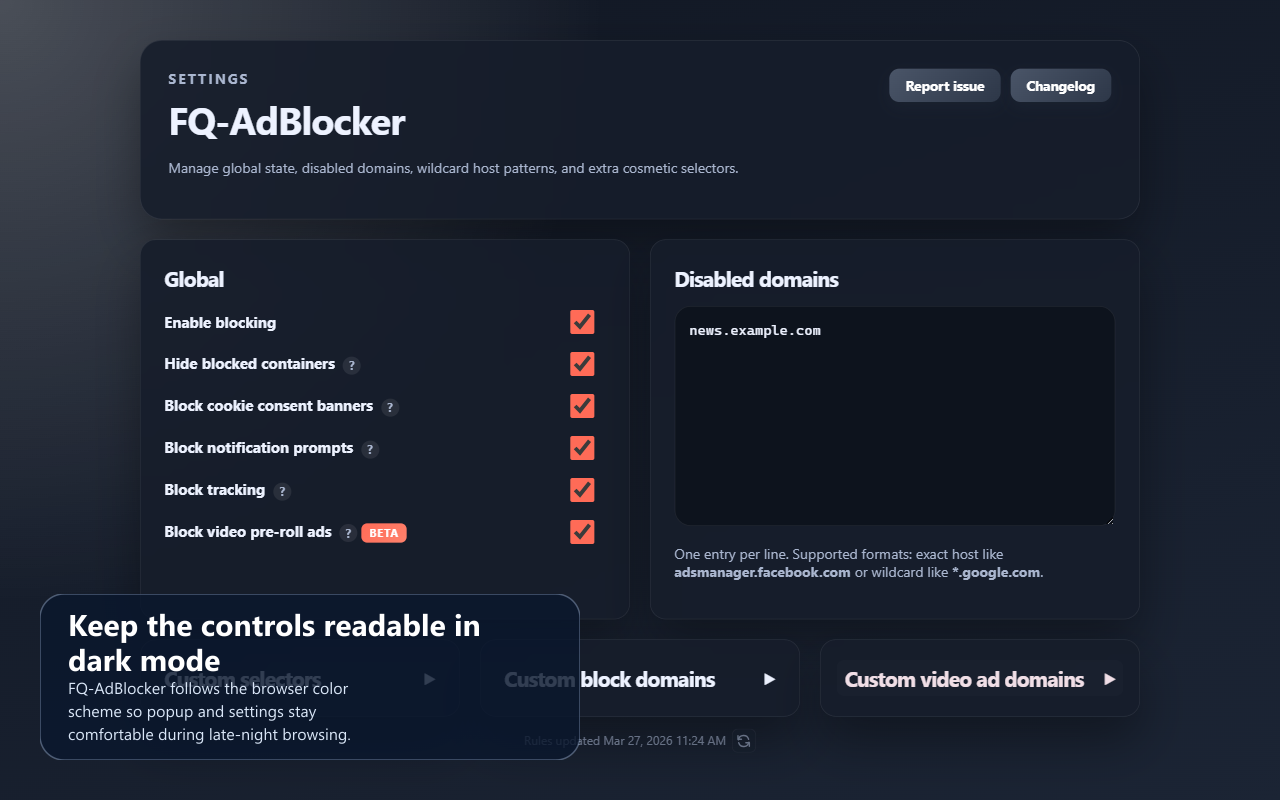
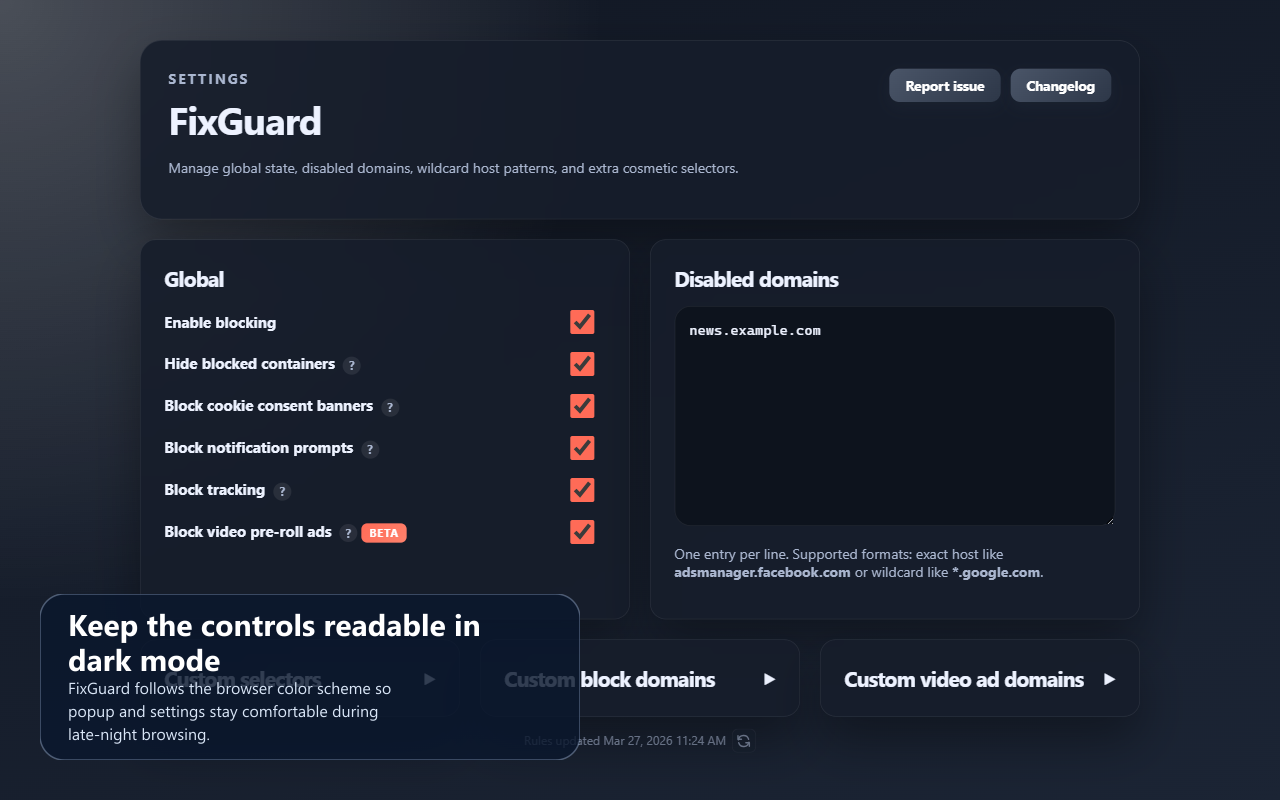
Moved to fixguard.org

Changed region(s): [[0.0625, 0.8438, 0.3125, 0.9375], [0.125, 0.125, 0.3125, 0.1875], [0.6562, 0.8438, 0.8438, 0.875]]

diff --git a/index.html b/index.html
@@ -3,36 +3,39 @@
   <head>
     <meta charset="UTF-8" />
     <meta name="viewport" content="width=device-width, initial-scale=1.0" />
-    <title>FQ-AdBlocker — Lightweight Ad Blocker for Chrome & Edge</title>
+    <title>FixGuard – Ad Blocker & Privacy Protection for Chrome & Edge</title>
     <meta name="description" content="A lightweight Manifest V3 extension for Chrome and Edge with network blocking, cosmetic filtering, cookie consent hiding, and video ad blocking." />
-    <meta name="application-name" content="FQ-AdBlocker" />
-    <meta name="apple-mobile-web-app-title" content="FQ-AdBlocker" />
+    <meta name="application-name" content="FixGuard" />
+    <meta name="apple-mobile-web-app-title" content="FixGuard" />
     <meta name="theme-color" content="#111723" />
     <meta name="color-scheme" content="light dark" />
-    <meta name="robots" content="index, follow" />
-    <meta name="google-site-verification" content="14OfSmxPs5-EXpOJ6Cx9AvpeZSgXMOnxvYtgm21ykQY" />
-    <link rel="canonical" href="https://adblocker.fixquotes.com" />
+    <meta name="robots" content="noindex, nofollow" />
+    <link rel="canonical" href="https://fixguard.org/" />
+    <meta http-equiv="refresh" content="0; url=https://fixguard.org/" />
     <link rel="icon" href="favicon.ico" sizes="any" />
     <link rel="shortcut icon" href="favicon.ico" type="image/x-icon" />
     <link rel="icon" href="img/icon-128.png" type="image/png" />
     <link rel="icon" type="image/svg+xml" href="favicon.svg" />
     <link rel="apple-touch-icon" href="img/icon-128.png" />
+    <script>
+      window.location.replace("https://fixguard.org/");
+    </script>
 
     <!-- Open Graph -->
-    <meta property="og:site_name" content="FQ-AdBlocker" />
+    <meta property="og:site_name" content="FixGuard" />
     <meta property="og:locale" content="en_US" />
     <meta property="og:type" content="website" />
-    <meta property="og:title" content="FQ-AdBlocker — Lightweight Ad Blocker for Chrome & Edge" />
+    <meta property="og:title" content="FixGuard – Ad Blocker & Privacy Protection for Chrome & Edge" />
     <meta property="og:description" content="A lightweight Manifest V3 extension for Chrome and Edge with network blocking, cosmetic filtering, cookie consent hiding, and video ad blocking." />
-    <meta property="og:url" content="https://adblocker.fixquotes.com" />
-    <meta property="og:image" content="https://adblocker.fixquotes.com/img/feature-before-after-newspaper.png" />
-    <meta property="og:image:alt" content="Before and after comparison of an ad-heavy newspaper page cleaned up by FQ-AdBlocker" />
+    <meta property="og:url" content="https://fixguard.org/" />
+    <meta property="og:image" content="https://fixguard.org/img/feature-before-after-newspaper.png" />
+    <meta property="og:image:alt" content="Before and after comparison of an ad-heavy newspaper page cleaned up by FixGuard" />
 
     <!-- Twitter -->
     <meta name="twitter:card" content="summary" />
-    <meta name="twitter:title" content="FQ-AdBlocker — Lightweight Ad Blocker for Chrome & Edge" />
+    <meta name="twitter:title" content="FixGuard – Ad Blocker & Privacy Protection for Chrome & Edge" />
     <meta name="twitter:description" content="A lightweight Manifest V3 extension for Chrome and Edge with network blocking, cosmetic filtering, cookie consent hiding, and video ad blocking." />
-    <meta name="twitter:image" content="https://adblocker.fixquotes.com/img/feature-before-after-newspaper.png" />
+    <meta name="twitter:image" content="https://fixguard.org/img/feature-before-after-newspaper.png" />
 
     <link rel="stylesheet" href="style.css" />
   </head>
@@ -42,7 +45,7 @@
       <nav class="nav container">
         <a href="index.html" class="nav-brand">
           <img src="img/icon-48.png" alt="" width="28" height="28" />
-          <span>FQ-AdBlocker</span>
+          <span>FixGuard</span>
         </a>
         <ul class="nav-links">
           <li><a href="index.html#features">Features</a></li>
@@ -59,9 +62,9 @@
         <div class="container hero-inner">
           <p class="eyebrow">Chrome & Edge Extension · Manifest V3</p>
           <h1>Browse without<br />the noise.</h1>
-          <p class="hero-sub">FQ-AdBlocker is a free, lightweight, privacy-first extension for Chrome and Edge that blocks ads, trackers, cookie banners, and notification prompts while giving you clean per-site control — no accounts, no subscriptions, no premium tiers.</p>
+          <p class="hero-sub">FixGuard is a free, lightweight, privacy-first extension for Chrome and Edge that blocks ads, trackers, cookie banners, and notification prompts while giving you clean per-site control — no accounts, no subscriptions, no premium tiers.</p>
           <div class="hero-actions">
-            <a href="https://chromewebstore.google.com/detail/fq-adblocker/dnpcaahjbmabpacbdhnfjdincnkafjfm" class="btn" target="_blank" rel="noopener"><img src="img/chrome.svg" alt="" width="20" height="20" />Add to Chrome</a>
+            <a href="https://chromewebstore.google.com/detail/dnpcaahjbmabpacbdhnfjdincnkafjfm" class="btn" target="_blank" rel="noopener"><img src="img/chrome.svg" alt="" width="20" height="20" />Add to Chrome</a>
             <a href="index.html#screenshots" class="btn btn-outline">See Screenshots</a>
             <a href="index.html#features" class="btn btn-outline">See Features</a>
           </div>
@@ -79,7 +82,7 @@
               <button class="showcase-stage" type="button" data-screenshot-open aria-label="Open selected screenshot in full size">
                 <img
                   src="img/feature-before-after-newspaper.png"
-                  alt="Before and after comparison of an ad-heavy newspaper page cleaned up by FQ-AdBlocker"
+                  alt="Before and after comparison of an ad-heavy newspaper page cleaned up by FixGuard"
                   data-screenshot-active-image
                 />
               </button>
@@ -87,7 +90,7 @@
               <article class="showcase-copy card">
                 <p class="showcase-label" data-screenshot-active-label>Before / After</p>
                 <h3 data-screenshot-active-title>Watch a cluttered news page turn readable</h3>
-                <p class="showcase-description" data-screenshot-active-description>One side shows the typical ad-heavy newspaper layout. The other shows the same story after FQ-AdBlocker clears banners, sticky promos, and overlays.</p>
+                <p class="showcase-description" data-screenshot-active-description>One side shows the typical ad-heavy newspaper layout. The other shows the same story after FixGuard clears banners, sticky promos, and overlays.</p>
                 <p class="showcase-support" data-screenshot-active-support>This is the clearest way to show the product value: same page, same article, much less noise.</p>
               </article>
             </div>
@@ -102,9 +105,9 @@
                 data-image="img/feature-before-after-newspaper.png"
                 data-title="Watch a cluttered news page turn readable"
                 data-label="Before / After"
-                data-description="One side shows the typical ad-heavy newspaper layout. The other shows the same story after FQ-AdBlocker clears banners, sticky promos, and overlays."
+                data-description="One side shows the typical ad-heavy newspaper layout. The other shows the same story after FixGuard clears banners, sticky promos, and overlays."
                 data-support="This is the clearest way to show the product value: same page, same article, much less noise."
-                data-alt="Before and after comparison of an ad-heavy newspaper page cleaned up by FQ-AdBlocker"
+                data-alt="Before and after comparison of an ad-heavy newspaper page cleaned up by FixGuard"
               >
                 <img src="img/feature-before-after-newspaper_thumb.png" alt="" />
                 <span>Before / After</span>
@@ -121,7 +124,7 @@
                 data-label="Allowlist"
                 data-description="Allowlist the active site from the popup while keeping blocking enabled everywhere else."
                 data-support="Matched wildcard entries are surfaced in the popup, so users can see exactly why protection is paused on a given host."
-                data-alt="FQ-AdBlocker popup showing a matched allowlist pattern and enable button for the current site"
+                data-alt="FixGuard popup showing a matched allowlist pattern and enable button for the current site"
               >
                 <img src="img/feature-site-allowlist_thumb.png" alt="" />
                 <span>Site Allowlist</span>
@@ -138,7 +141,7 @@
                 data-label="Settings"
                 data-description="Control global blocking, cookie banners, tracking, notifications, video ads, and wildcard-disabled domains from a single page."
                 data-support="The settings page keeps the core toggles visible first, then leaves room for more advanced rule lists further down."
-                data-alt="FQ-AdBlocker settings page showing global toggles and disabled domains"
+                data-alt="FixGuard settings page showing global toggles and disabled domains"
               >
                 <img src="img/feature-settings-overview_thumb.png" alt="" />
                 <span>Settings Overview</span>
@@ -155,7 +158,7 @@
                 data-label="Custom Rules"
                 data-description="Add custom selectors, extra blocked domains, and custom video-ad filters on top of the built-in remote lists."
                 data-support="This gives power users a controlled way to extend filtering without losing the lightweight default setup."
-                data-alt="FQ-AdBlocker settings page showing custom selectors, custom block domains, and custom video ad domains"
+                data-alt="FixGuard settings page showing custom selectors, custom block domains, and custom video ad domains"
               >
                 <img src="img/feature-custom-rules_thumb.png" alt="" />
                 <span>Custom Rules</span>
@@ -172,7 +175,7 @@
                 data-label="Dark Mode"
                 data-description="The settings page follows the browser color scheme so advanced controls stay readable during long evening sessions."
                 data-support="The extension UI keeps the same structure in dark mode, which makes the popup and settings page easy to use without a separate theme toggle."
-                data-alt="FQ-AdBlocker settings page shown in dark mode"
+                data-alt="FixGuard settings page shown in dark mode"
               >
                 <img src="img/feature-dark-mode_thumb.png" alt="" />
                 <span>Dark Mode</span>
@@ -280,7 +283,7 @@
           <h2 class="section-title">Install in seconds — it's free.</h2>
 
           <div class="store-grid">
-            <a href="https://chromewebstore.google.com/detail/fq-adblocker/dnpcaahjbmabpacbdhnfjdincnkafjfm" class="store-card" target="_blank" rel="noopener">
+            <a href="https://chromewebstore.google.com/detail/dnpcaahjbmabpacbdhnfjdincnkafjfm" class="store-card" target="_blank" rel="noopener">
               <img src="img/chrome.svg" alt="" class="store-logo" width="48" height="48" />
               <div class="store-info">
                 <h3>Chrome Web Store</h3>
@@ -302,7 +305,7 @@
             <div class="step">
               <span class="step-num">1</span>
               <h3>Add to Your Browser</h3>
-              <p>Visit the <a href="https://chromewebstore.google.com/detail/fq-adblocker/dnpcaahjbmabpacbdhnfjdincnkafjfm" target="_blank" rel="noopener">Chrome Web Store</a> listing and click <strong>Add</strong>. Edge Add-ons listing coming soon.</p>
+              <p>Visit the <a href="https://chromewebstore.google.com/detail/dnpcaahjbmabpacbdhnfjdincnkafjfm" target="_blank" rel="noopener">Chrome Web Store</a> listing and click <strong>Add</strong>. Edge Add-ons listing coming soon.</p>
             </div>
             <div class="step">
               <span class="step-num">2</span>
@@ -312,7 +315,7 @@
             <div class="step">
               <span class="step-num">3</span>
               <h3>Pin It</h3>
-              <p>Click the extensions icon in your browser's toolbar and pin FQ-AdBlocker for quick access.</p>
+              <p>Click the extensions icon in your browser's toolbar and pin FixGuard for quick access.</p>
             </div>
             <div class="step">
               <span class="step-num">4</span>

diff --git a/privacy.html b/privacy.html
@@ -3,35 +3,39 @@
   <head>
     <meta charset="UTF-8" />
     <meta name="viewport" content="width=device-width, initial-scale=1.0" />
-    <title>Privacy Policy — FQ-AdBlocker</title>
-    <meta name="description" content="FQ-AdBlocker blocks content locally, stores settings in browser storage, and downloads rule updates without collecting personal data." />
-    <meta name="application-name" content="FQ-AdBlocker" />
-    <meta name="apple-mobile-web-app-title" content="FQ-AdBlocker" />
+    <title>Privacy Policy — FixGuard</title>
+    <meta name="description" content="FixGuard blocks content locally, stores settings in browser storage, and downloads rule updates without collecting personal data." />
+    <meta name="application-name" content="FixGuard" />
+    <meta name="apple-mobile-web-app-title" content="FixGuard" />
     <meta name="theme-color" content="#111723" />
     <meta name="color-scheme" content="light dark" />
-    <meta name="robots" content="index, follow" />
-    <link rel="canonical" href="https://adblocker.fixquotes.com/privacy.html" />
+    <meta name="robots" content="noindex, nofollow" />
+    <link rel="canonical" href="https://fixguard.org/privacy.html" />
+    <meta http-equiv="refresh" content="0; url=https://fixguard.org/" />
     <link rel="icon" href="favicon.ico" sizes="any" />
     <link rel="shortcut icon" href="favicon.ico" type="image/x-icon" />
     <link rel="icon" href="img/icon-128.png" type="image/png" />
     <link rel="icon" type="image/svg+xml" href="favicon.svg" />
     <link rel="apple-touch-icon" href="img/icon-128.png" />
+    <script>
+      window.location.replace("https://fixguard.org/");
+    </script>
 
     <!-- Open Graph -->
-    <meta property="og:site_name" content="FQ-AdBlocker" />
+    <meta property="og:site_name" content="FixGuard" />
     <meta property="og:locale" content="en_US" />
     <meta property="og:type" content="website" />
-    <meta property="og:title" content="Privacy Policy — FQ-AdBlocker" />
-    <meta property="og:description" content="FQ-AdBlocker blocks content locally, stores settings in browser storage, and downloads rule updates without collecting personal data." />
-    <meta property="og:url" content="https://adblocker.fixquotes.com/privacy.html" />
-    <meta property="og:image" content="https://adblocker.fixquotes.com/img/feature-before-after-newspaper.png" />
-    <meta property="og:image:alt" content="Before and after comparison of an ad-heavy newspaper page cleaned up by FQ-AdBlocker" />
+    <meta property="og:title" content="Privacy Policy — FixGuard" />
+    <meta property="og:description" content="FixGuard blocks content locally, stores settings in browser storage, and downloads rule updates without collecting personal data." />
+    <meta property="og:url" content="https://fixguard.org/privacy.html" />
+    <meta property="og:image" content="https://fixguard.org/img/feature-before-after-newspaper.png" />
+    <meta property="og:image:alt" content="Before and after comparison of an ad-heavy newspaper page cleaned up by FixGuard" />
 
     <!-- Twitter -->
     <meta name="twitter:card" content="summary" />
-    <meta name="twitter:title" content="Privacy Policy — FQ-AdBlocker" />
-    <meta name="twitter:description" content="FQ-AdBlocker blocks content locally, stores settings in browser storage, and downloads rule updates without collecting personal data." />
-    <meta name="twitter:image" content="https://adblocker.fixquotes.com/img/feature-before-after-newspaper.png" />
+    <meta name="twitter:title" content="Privacy Policy — FixGuard" />
+    <meta name="twitter:description" content="FixGuard blocks content locally, stores settings in browser storage, and downloads rule updates without collecting personal data." />
+    <meta name="twitter:image" content="https://fixguard.org/img/feature-before-after-newspaper.png" />
 
     <link rel="stylesheet" href="style.css" />
   </head>
@@ -41,7 +45,7 @@
       <nav class="nav container">
         <a href="index.html" class="nav-brand">
           <img src="img/icon-48.png" alt="" width="28" height="28" />
-          <span>FQ-AdBlocker</span>
+          <span>FixGuard</span>
         </a>
         <ul class="nav-links">
           <li><a href="index.html#features">Features</a></li>
@@ -57,19 +61,19 @@
         <div class="container container-narrow">
           <p class="eyebrow">Legal</p>
           <h1 class="page-title">Privacy Policy</h1>
-          <p class="last-updated">Last Updated: March 29, 2026</p>
+          <p class="last-updated">Last Updated: March 30, 2026</p>
 
-          <p>This Privacy Policy describes how FQ-AdBlocker ("we", "us", or "our") handles your information when you use our browser extension.</p>
+          <p>This Privacy Policy describes how FixGuard ("we", "us", or "our") handles your information when you use our browser extension.</p>
 
           <div class="highlight-box">
-            <strong>Summary:</strong> We do not collect, sell, or share personal data. Blocking happens locally in your browser, and the extension only contacts our rules API to download updated blocking rules. Those requests are not used for analytics, do not include your browsing history or page content, and api.fixquotes.com does not keep IP logs.
+            <strong>Summary:</strong> We do not collect, sell, or share personal data. Blocking happens locally in your browser, and the extension only contacts our rules API at fixguard.org to download updated blocking rules. Those requests are not used for analytics, do not include your browsing history or page content, and fixguard.org does not keep IP logs.
           </div>
 
           <h2>1. Data Collection</h2>
-          <p><strong>FQ-AdBlocker does not collect any personal data.</strong></p>
+          <p><strong>FixGuard does not collect any personal data.</strong></p>
           <p>The extension reads the content of web pages you visit solely to apply cosmetic filtering — hiding ad containers, cookie consent banners, and other unwanted elements. This processing is performed entirely within your browser on your device.</p>
           <p>Network blocking is handled by Chrome's Declarative Net Request API using extension rules. The extension does not intercept request bodies, inspect account data, or transmit your browsing history.</p>
-          <p>To keep blocking rules current, the extension periodically downloads updated rule data from <code>https://api.fixquotes.com/public/adblocker-rules</code>. These requests are limited to rule updates, are not tied to your browsing activity, and api.fixquotes.com does not keep IP logs.</p>
+          <p>To keep blocking rules current, the extension periodically downloads updated rule data from <code>https://fixguard.org/api/public/adblocker-rules</code>. These requests are limited to rule updates, are not tied to your browsing activity, and fixguard.org does not keep IP logs.</p>
           <ul>
             <li>We do not track your browsing history.</li>
             <li>We do not collect analytics or telemetry.</li>
@@ -93,7 +97,7 @@
           <p>This data remains in your browser storage. If you use Chrome Sync, some settings may sync through your browser profile. We do not receive access to that stored data.</p>
 
           <h2>3. Permissions</h2>
-          <p>FQ-AdBlocker requests the following browser permissions:</p>
+          <p>FixGuard requests the following browser permissions:</p>
           <ul>
             <li><strong>declarativeNetRequest / declarativeNetRequestWithHostAccess:</strong> Used to block ads and tracking requests and apply dynamic allowlist and custom blocking rules.</li>
             <li><strong>declarativeNetRequestFeedback:</strong> Used to query matched rule counts for the popup and debugging. No request payloads are stored or transmitted.</li>
@@ -105,14 +109,14 @@
           <p>No permission is used to collect or sell personal information. The only external requests made by the extension are for downloading updated blocking rules.</p>
 
           <h2>4. Third-Party Services</h2>
-          <p>FQ-AdBlocker does not load third-party analytics, ad scripts, or CDN resources into the extension. All extension code runs locally from the extension bundle.</p>
-          <p>The extension does contact <code>api.fixquotes.com</code> to download updated blocking rules. These requests are used only to deliver rule updates, are not used for analytics, and api.fixquotes.com does not keep IP logs.</p>
+          <p>FixGuard does not load third-party analytics, ad scripts, or CDN resources into the extension. All extension code runs locally from the extension bundle.</p>
+          <p>The extension does contact <code>https://fixguard.org/api/public/adblocker-rules</code> to download updated blocking rules. These requests are used only to deliver rule updates, are not used for analytics, and fixguard.org does not keep IP logs.</p>
 
           <h2>5. Website</h2>
-          <p>The FQ-AdBlocker website is a static site hosted on GitHub Pages. It does not use cookies, analytics, or tracking scripts.</p>
+          <p>The FixGuard website is a static site hosted on GitHub Pages. It does not use cookies, analytics, or tracking scripts.</p>
 
           <h2>6. Your Rights</h2>
-          <p>Since FQ-AdBlocker does not collect or store personal data, there is no personal data to access, modify, or delete. If you have questions, you may contact us using the information below.</p>
+          <p>Since FixGuard does not collect or store personal data, there is no personal data to access, modify, or delete. If you have questions, you may contact us using the information below.</p>
 
           <h2>7. Changes to This Policy</h2>
           <p>We may update this Privacy Policy from time to time. Changes will be posted on this page with an updated date.</p>

diff --git a/changelog.html b/changelog.html
@@ -3,17 +3,21 @@
   <head>
     <meta charset="UTF-8" />
     <meta name="viewport" content="width=device-width, initial-scale=1.0" />
-    <title>Changelog — FQ-AdBlocker</title>
-    <meta name="description" content="FQ-AdBlocker changelog — see what's new in each release." />
+    <title>Changelog — FixGuard</title>
+    <meta name="description" content="FixGuard changelog — see what's new in each release." />
     <meta name="theme-color" content="#111723" />
     <meta name="color-scheme" content="light dark" />
-    <meta name="robots" content="index, follow" />
-    <link rel="canonical" href="https://adblocker.fixquotes.com/changelog.html" />
+    <meta name="robots" content="noindex, nofollow" />
+    <link rel="canonical" href="https://fixguard.org/changelog.html" />
+    <meta http-equiv="refresh" content="0; url=https://fixguard.org/" />
     <link rel="icon" href="favicon.ico" sizes="any" />
     <link rel="shortcut icon" href="favicon.ico" type="image/x-icon" />
     <link rel="icon" href="img/icon-128.png" type="image/png" />
     <link rel="icon" type="image/svg+xml" href="favicon.svg" />
     <link rel="apple-touch-icon" href="img/icon-128.png" />
+    <script>
+      window.location.replace("https://fixguard.org/");
+    </script>
     <link rel="stylesheet" href="style.css" />
   </head>
   <body>
@@ -22,7 +26,7 @@
       <nav class="nav container">
         <a href="index.html" class="nav-brand">
           <img src="img/icon-48.png" alt="" width="28" height="28" />
-          <span>FQ-AdBlocker</span>
+          <span>FixGuard</span>
         </a>
         <ul class="nav-links">
           <li><a href="index.html#features">Features</a></li>
@@ -40,8 +44,8 @@
 
           <article class="changelog-entry">
             <div class="changelog-version">
-              <span class="badge">v1.0.1</span>
-              <time datetime="2026-03-29">March 29, 2026</time>
+              <span class="badge">v1.0.2</span>
+              <time datetime="2026-03-30">March 30, 2026</time>
             </div>
             <h3>Added</h3>
             <ul>
@@ -55,6 +59,7 @@
             </ul>
             <h3>Fixed</h3>
             <ul>
+              <li>Switched remote rules syncing from the legacy FixQuotes API host to <a href="https://fixguard.org/api/public/adblocker-rules" target="_blank" rel="noopener">fixguard.org/api/public/adblocker-rules</a>.</li>
               <li>Fixed a bug where allowlisted sites would infinitely increment the "Ads removed" count.</li>
               <li>Fixed inaccurately low "Ads removed" counter and updated it to factor in both cosmetically hidden ads and network-level blocks.</li>
               <li>Fixed the "Block notification prompts" toggle so it persists correctly and can be cleanly disabled per-site.</li>
@@ -64,7 +69,10 @@
             </ul>
             <h3>Changed</h3>
             <ul>
-              <li>Updated the website with a direct <a href="https://chromewebstore.google.com/detail/fq-adblocker/dnpcaahjbmabpacbdhnfjdincnkafjfm" target="_blank" rel="noopener">Chrome Web Store</a> install link now that the extension has been approved on Chrome.</li>
+              <li>Updated the website with a direct <a href="https://chromewebstore.google.com/detail/dnpcaahjbmabpacbdhnfjdincnkafjfm" target="_blank" rel="noopener">Chrome Web Store</a> install link now that the extension has been approved on Chrome.</li>
+              <li>Changed the legacy adblocker.fixquotes.com site to redirect straight to <a href="https://fixguard.org/">fixguard.org</a>.</li>
+              <li>Added a dedicated GitHub Pages 404 redirect page so unknown legacy routes also forward to <a href="https://fixguard.org/">fixguard.org</a>.</li>
+              <li>Renamed the product to FixGuard, aligned the extension/store branding, and moved the public website to fixguard.org.</li>
               <li>Updated the settings page and popup to show rule sync status, last-updated timestamps, and retry timing.</li>
               <li>Clarified the privacy policy to document remote rule downloads, browser-local storage usage, and the no-IP-log policy for the rules API.</li>
             </ul>

diff --git a/404.html b/404.html
@@ -1,0 +1,17 @@
+<!DOCTYPE html>
+<html lang="en">
+  <head>
+    <meta charset="UTF-8" />
+    <meta name="viewport" content="width=device-width, initial-scale=1.0" />
+    <title>Redirecting to FixGuard</title>
+    <meta name="robots" content="noindex, nofollow" />
+    <link rel="canonical" href="https://fixguard.org/" />
+    <meta http-equiv="refresh" content="0; url=https://fixguard.org/" />
+    <script>
+      window.location.replace("https://fixguard.org/");
+    </script>
+  </head>
+  <body>
+    <p>Redirecting to <a href="https://fixguard.org/">https://fixguard.org/</a>...</p>
+  </body>
+</html>

diff --git a/style.css b/style.css
@@ -1,6 +1,6 @@
 /* =========================================================
-   FQ-AdBlocker – Landing Page
-   ========================================================= */
+  FixGuard – Landing Page
+  ========================================================= */
 
 /* --- Tokens ------------------------------------------------ */
 
